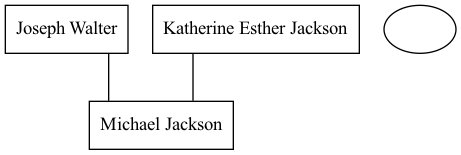
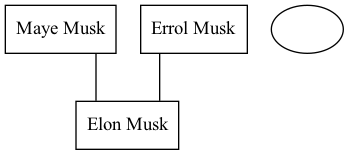
Improve relative recognition

Changed region(s): [[0.0, 0.0258, 1.0, 0.6452], [0.1719, 0.6452, 0.5158, 0.9806]]

diff --git a/proj2_src/nlp/nlp.py b/proj2_src/nlp/nlp.py
@@ -6,71 +6,111 @@ import nltk
 from nltk.corpus import wordnet as wn
 import spacy
 import re
+from enum import Enum
 
 from proj2_src.models.family import Person
 from proj2_src.models.tree import Tree
 from proj2_src.models.sex import Sex
 
 nlp = spacy.load("en_core_web_sm")
+
+father_synset = wn.synset("father.n.01")
+mother_synset = wn.synset("mother.n.01")
+parent_synset = wn.synset("parent.n.01")
+son_synset = wn.synset("son.n.01")
+daughter_synset = wn.synset("daughter.n.01")
+child_synset = wn.synset("child.n.01")
+brother_synset = wn.synset("brother.n.01")
+sister_synset = wn.synset("sister.n.01")
+sibling_synset = wn.synset("sibling.n.01")
+
+parent_synsets = [
+	father_synset,
+	mother_synset,
+	parent_synset
+]
+
+child_synsets = [
+	son_synset,
+	daughter_synset,
+	child_synset
+]
+
+sibling_synsets = [
+	brother_synset,
+	sister_synset,
+	sibling_synset
+]
+
+
+all_synsets = [father_synset,
+	mother_synset,
+	parent_synset,
+	son_synset,
+	daughter_synset,
+	child_synset,
+	brother_synset,
+	sister_synset,
+	sibling_synset
+]
+
+def names_with_synset(sentence, compare_synsets) -> Set[str]:
+	words = nltk.word_tokenize(sentence)
+	pos = nltk.pos_tag(words)
+
+	s = set()
+
+	print("Names with syn: ", sentence, compare_synsets)
+
+	for i in range(len(words)):
+		synsets = nltk.corpus.wordnet.synsets(words[i])
+		if "Victoria" in sentence:
+			print("VIKKAN", words[i], synsets)
+		for synset in synsets:
+			if synset in compare_synsets:
+				print("IS IN COMPARE SYNSETS")
+				has_near_nn = True
+				sample_i_l = i+1
+				sample_i_h = i+5
+				for j in range(sample_i_l, sample_i_h):
+					if j < len(pos) and pos[j][1] == "NN":
+						pass
+						print("HAS NEAR NN??")
+						has_near_nn = False
+						break
+				if has_near_nn and (pos[i-1][1] == "PRP$" or pos[i-2][1] == "NNP"):
+					print("CLOSE TO PRP and NNP")
+					sample = words[sample_i_l - 1: sample_i_h]
+					sample = " ".join(sample).strip()
+					print(f"ANALYSING -{sample}-")
+					analzyed = nlp(sample)
+					print("Analyzed!! ", analzyed, analzyed.ents)
+					for a in analzyed.ents:
+						print("ENT: ", a.text, a.label_)
+						if a.label_ == "PERSON":
+							print("ACCEPTING", a.text)
+							s.add(a.text)
+							# return a.text
+	return s
+
 def analyze_relations(filtered):
-	print("___________________________________RELATIONS______________________________________")
-	parents: Set[Person] = set()
-	children: Set[Person] = set()
-	siblings: Set[Person] = set()
+	parent_names: Set[str] = set()
+	children_names: Set[str] = set()
+	sibling_names: Set[str] = set()
 	for sentence in filtered:
-		words = nltk.word_tokenize(sentence)
-		pos = nltk.pos_tag(words)
-		for i in range(len(pos)):
-			if pos[i][0] == "mother":
-				flag = True
-				for j in range(i+1, i+5):
-					if j < len(pos):
-						if pos[j][1] == "NN":
-							flag = False
-				if (pos[i-1][1] == "PRP$" or pos[i-2][1] == "NNP") and flag:
-					sample = words[i+1:i+5]
-					sample = " ".join(sample)
-					analzyed = nlp(sample)
-					for a in analzyed.ents:
-						if a.label_ == "PERSON":
-							print(a.text)
-							mother = Person(a.text, sex=Sex.female)
-							parents.add(mother)
-		for i in range(len(pos)):
-			if pos[i][0] == "father":
-				flag = True
-				for j in range(i+1, i+5):
-					if j < len(pos):
-						if pos[j][1] == "NN":
-							flag = False
-				if (pos[i-1][1] == "PRP$" or pos[i-2][1] == "NNP") and flag:
-					sample = words[i+1:i+5]
-					sample = " ".join(sample)
-					analzyed = nlp(sample)
-					for a in analzyed.ents:
-						if a.label_ == "PERSON":
-							print(a.text)
-							father = Person(a.text, sex=Sex.male)
-							parents.add(father)
-		for i in range(len(pos)):
-			if pos[i][0] == "daughter":
-				print(sentence)
-				print(pos)
-				print("________________________________")
-				flag = True
-				for j in range(i+1, i+5):
-					if j < len(pos):
-						if pos[j][1] == "NN":
-							flag = False
-				if (pos[i-1][1] == "PRP$" or pos[i-3][1] == "NN") and flag:
-					sample = words[i+1:i+5]
-					sample = " ".join(sample)
-					analzyed = nlp(sample)
-					for a in analzyed.ents:
-						if a.label_ == "PERSON":
-							print(a.text)
-							daughter = Person(a.text, sex=Sex.female)
-							children.add(daughter)
+		parent_names.update(names_with_synset(sentence, parent_synsets))
+		children_names.update(names_with_synset(sentence, child_synsets))
+		sibling_names.update(names_with_synset(sentence, sibling_synsets))
+
+	new_parents = [Person(name) for name in parent_names]
+	parents = set(new_parents)
+
+	new_childrens = [Person(name) for name in children_names]
+	children = set(new_childrens)
+
+	new_siblings = [Person(name) for name in sibling_names]
+	siblings = set(new_siblings)
+
 	print(parents)
 	print(children)
 	print(siblings)
@@ -94,19 +134,9 @@ def process_relation_sentences(sentences):
 	
 	return analyze_relations(filtered)
 
-	# TODO - GLENN: CONVERT TO TREE
-
 def process_text(name, text):
 	sentences = nltk.sent_tokenize(text)
-	father_synset = wn.synset("father.n.01")
-	mother_synset = wn.synset("mother.n.01")
-	parent_synset = wn.synset("parent.n.01")
-	son_synset = wn.synset("son.n.01")
-	daughter_synset = wn.synset("daughter.n.01")
-	child_synset = wn.synset("child.n.01")
-	brother_synset = wn.synset("brother.n.01")
-	sister_synset = wn.synset("sister.n.01")
-	sibling_synset = wn.synset("sibling.n.01")
+
 	familial_sentences = set()
 	for sentence in sentences:
 		tokens = nltk.word_tokenize(sentence)
@@ -115,7 +145,7 @@ def process_text(name, text):
 			for synset in synsets:
 				hypernyms = synset.hypernyms()
 				#if synset == son_synset or son_synset in hypernyms or synset == daughter_synset or daughter_synset in hypernyms or synset == child_synset or child_synset in hypernyms or synset == father_synset or father_synset in hypernyms or synset == mother_synset or mother_synset in hypernyms or synset == parent_synset or parent_synset in hypernyms:
-				if synset == son_synset or synset == daughter_synset or synset == child_synset or synset == father_synset or synset == mother_synset or synset == parent_synset or synset == brother_synset or synset == sister_synset or synset == sibling_synset:
+				if synset in all_synsets:
 				#if synset in child_synset or child_synset in hypernyms or synset == parent_synset or parent_synset in hypernyms:
 				#if synset == son_synset or son_synset in hypernyms or synset == daughter_synset or daughter_synset in hypernyms or hypernyms or synset == father_synset or father_synset in hypernyms or synset == mother_synset or mother_synset in hypernyms:
 					familial_sentences.add(sentence)
@@ -142,5 +172,6 @@ def process_name(name) -> Optional[Tree]:
 		wiki = wikipedia.page(name, auto_suggest=False)
 		text = wiki.content
 		return process_text(name, text)
-	except:
+	except Exception as e:
+		print(e)
 		return None

diff --git a/proj2_src/main.py b/proj2_src/main.py
@@ -59,7 +59,7 @@ splines = ortho;
 
 def main():
 	name = input("Please Enter a Name: ")
-	# name = "Barack Obama"
+	# name = "Carl XVI Gustaf"
 	tree: Optional[Tree] = nlp.process_name(name)
 
 	if tree is None:
